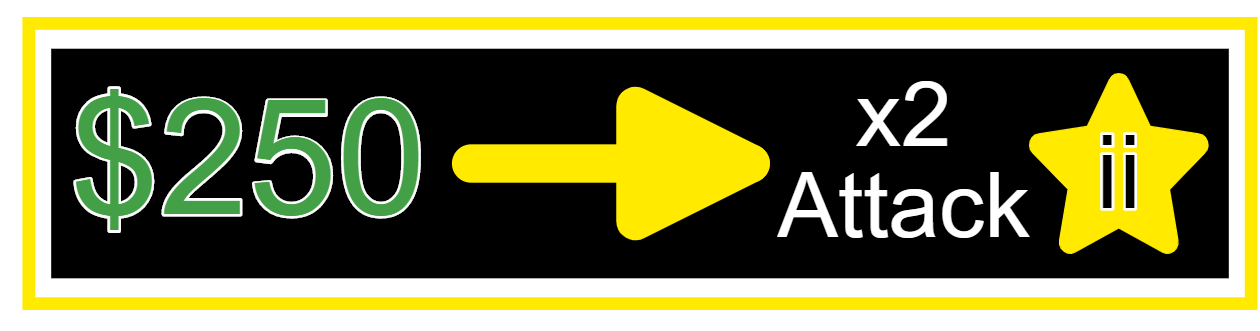
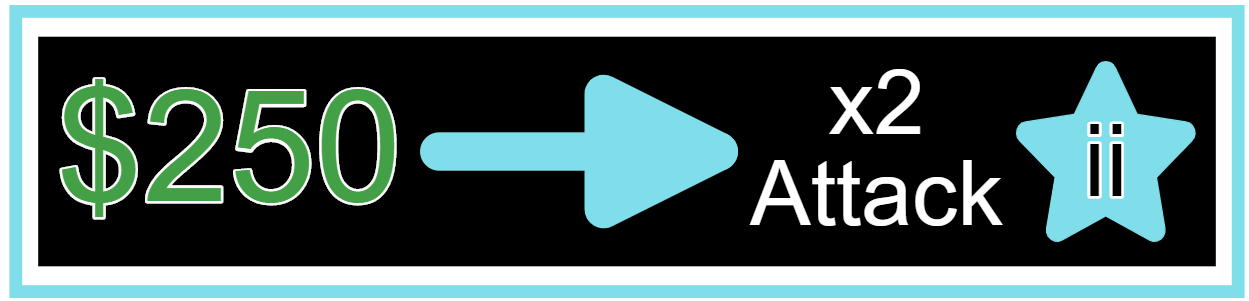
updated upgrade_ii button and added cyan functionality

diff --git a/bin/controller.py b/bin/controller.py
@@ -104,7 +104,7 @@ class Controller:
         ## reading from json file when starting the game to get the past high score
         #fileref = open ("highScore.json","r")
         #score = json.load(fileref)
-        
+
         (up, down, left, right, reset_click, sword, sword_cooldown) = (False, False, False, False, False, 50, 50)
         clock = pygame.time.Clock()
         with open(self.wave, 'r') as file:
@@ -179,6 +179,7 @@ class Controller:
                                         self.character.total_money -= 250
                                         self.character.upgrade_level += 1
                                         self.character.damage_output = 10
+                                        self.character.upgrade_color = "cyan"
                                         e.kill()
                                         self.tier_iii_upgrade = bin.button.Button(self.upgrade_button_location, "assets/upgrade_iii.png", "upgrade_iii", self.button_size)
                                         self.sale_items.add(self.tier_iii_upgrade)
@@ -421,7 +422,7 @@ class Controller:
             ## if it is a new high score, write to the json file with the score that is in the highScore object from score class
             #fileref = open("highScore.json","w")
             #json.dump(newScore.__dict__, fileref)
-            
+
             for event in pygame.event.get():
                 if event.type == pygame.QUIT:
                     self.STATE = "exit"
